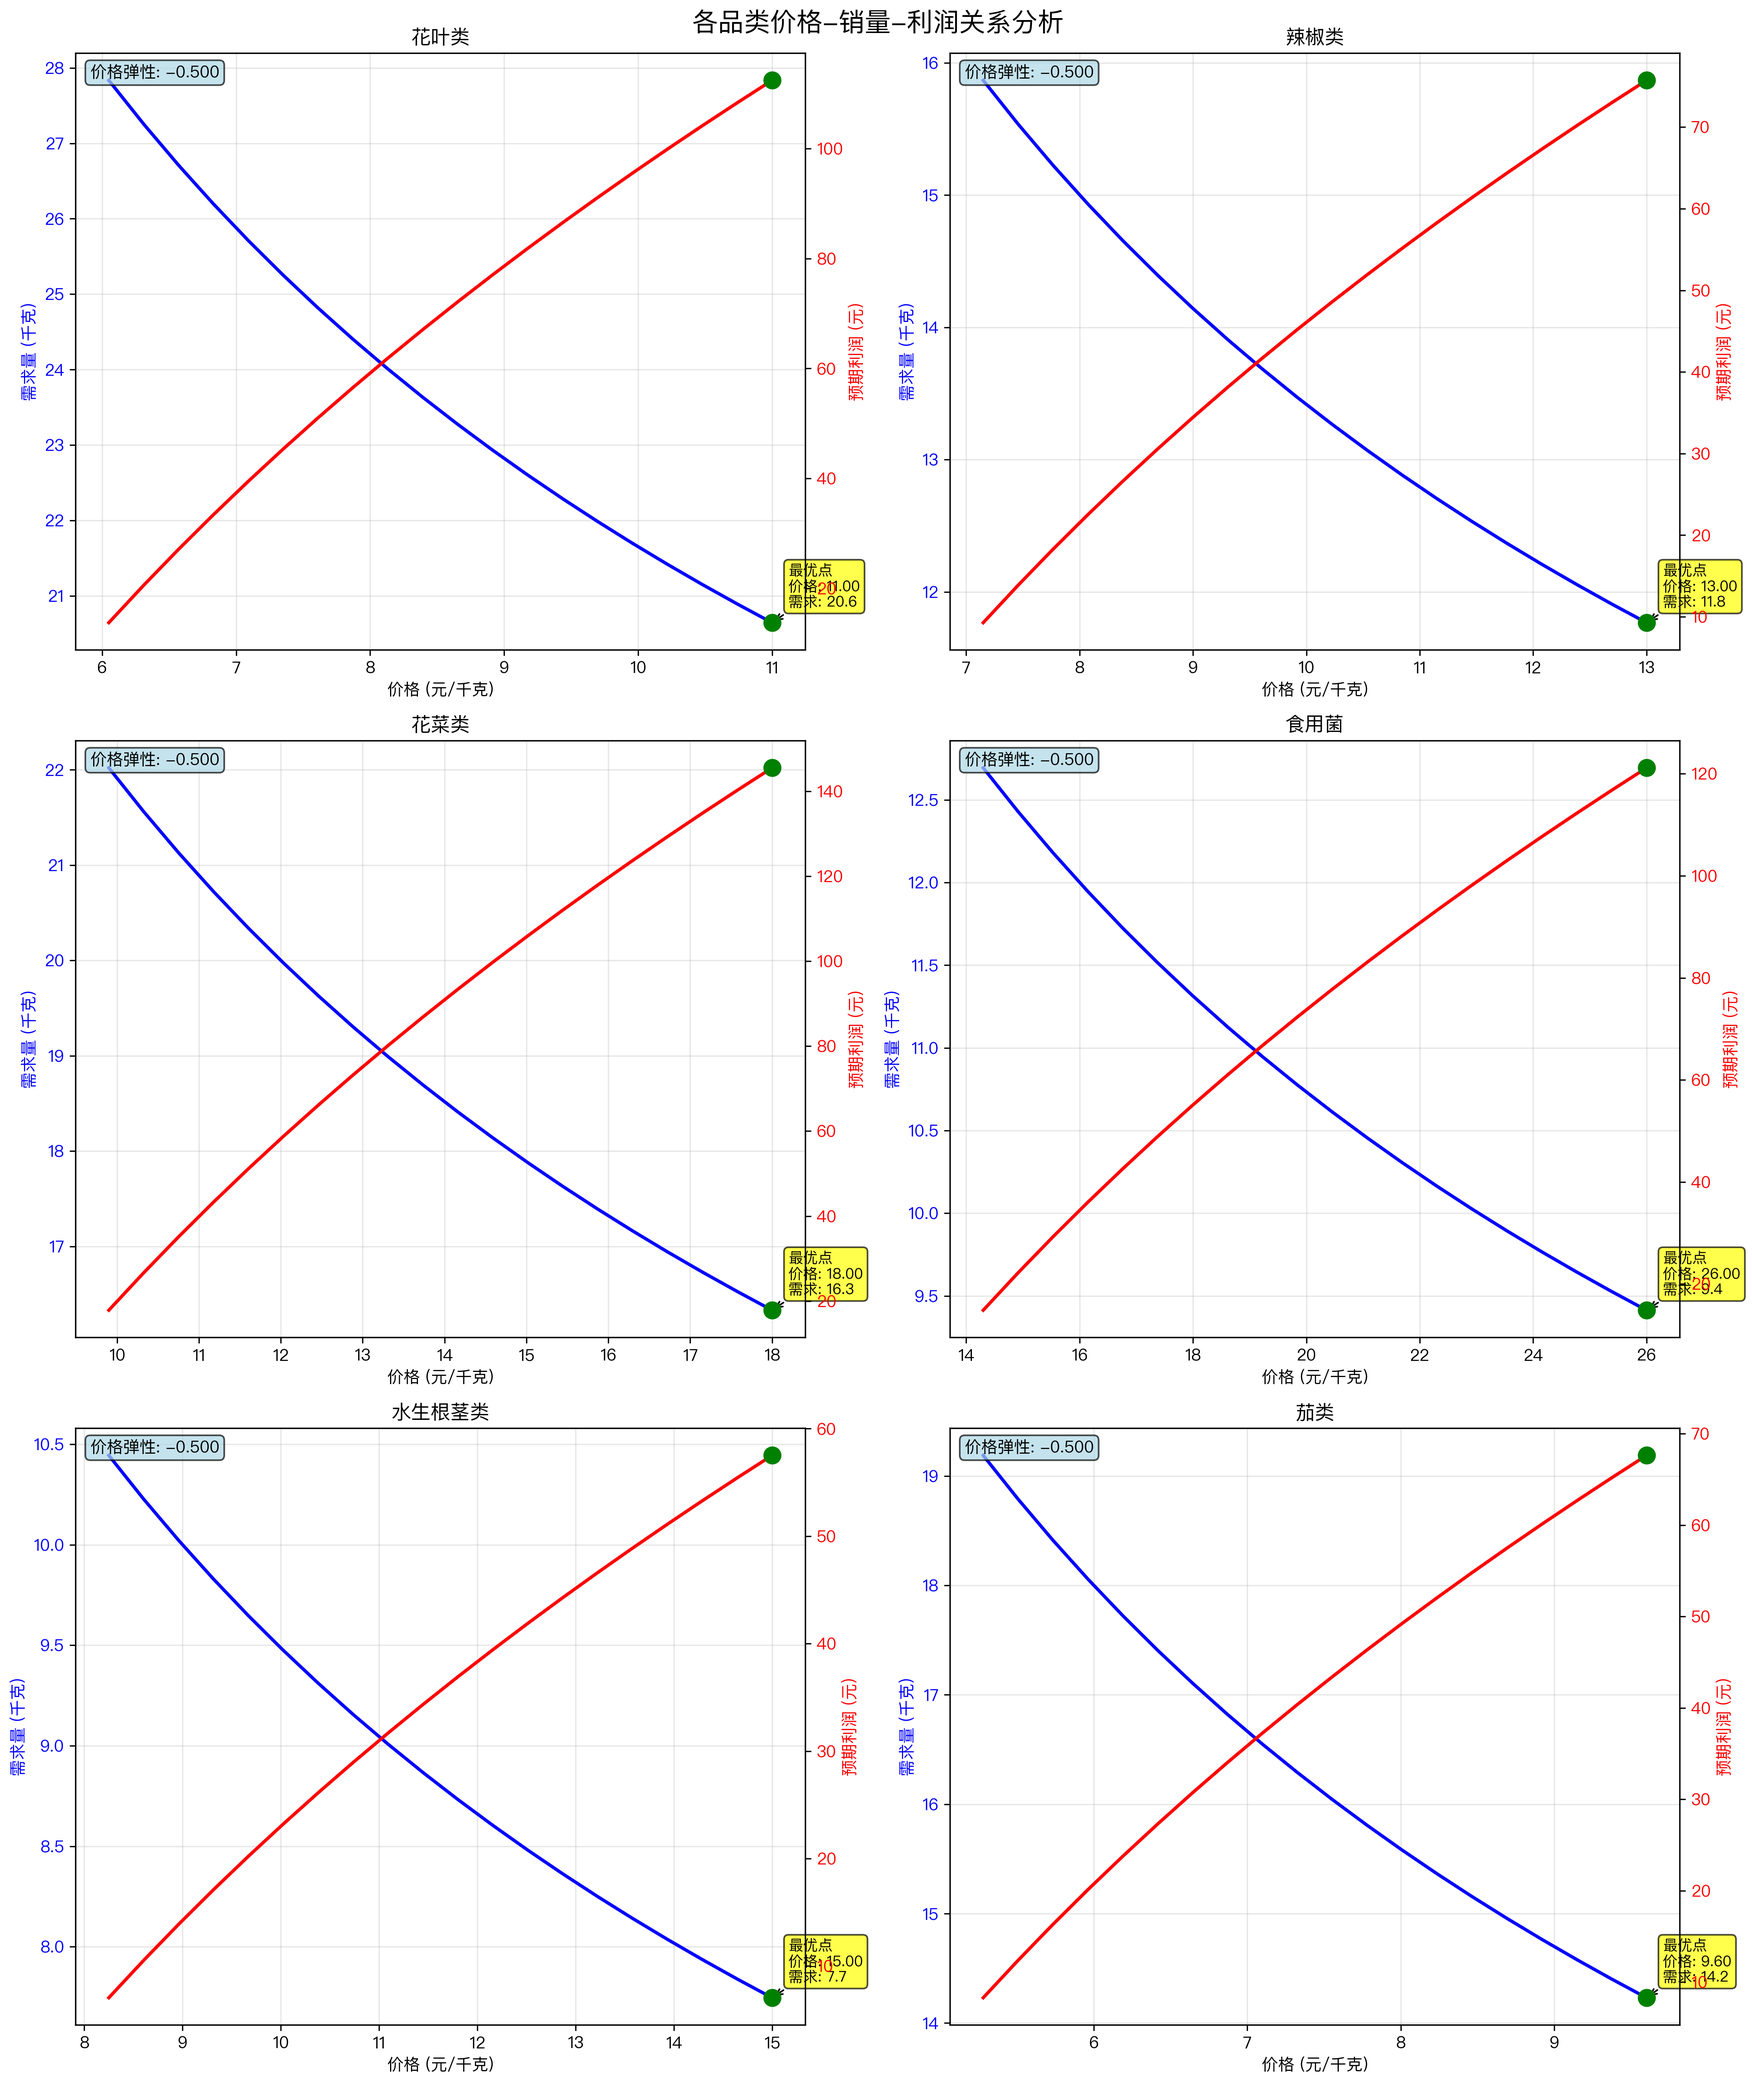
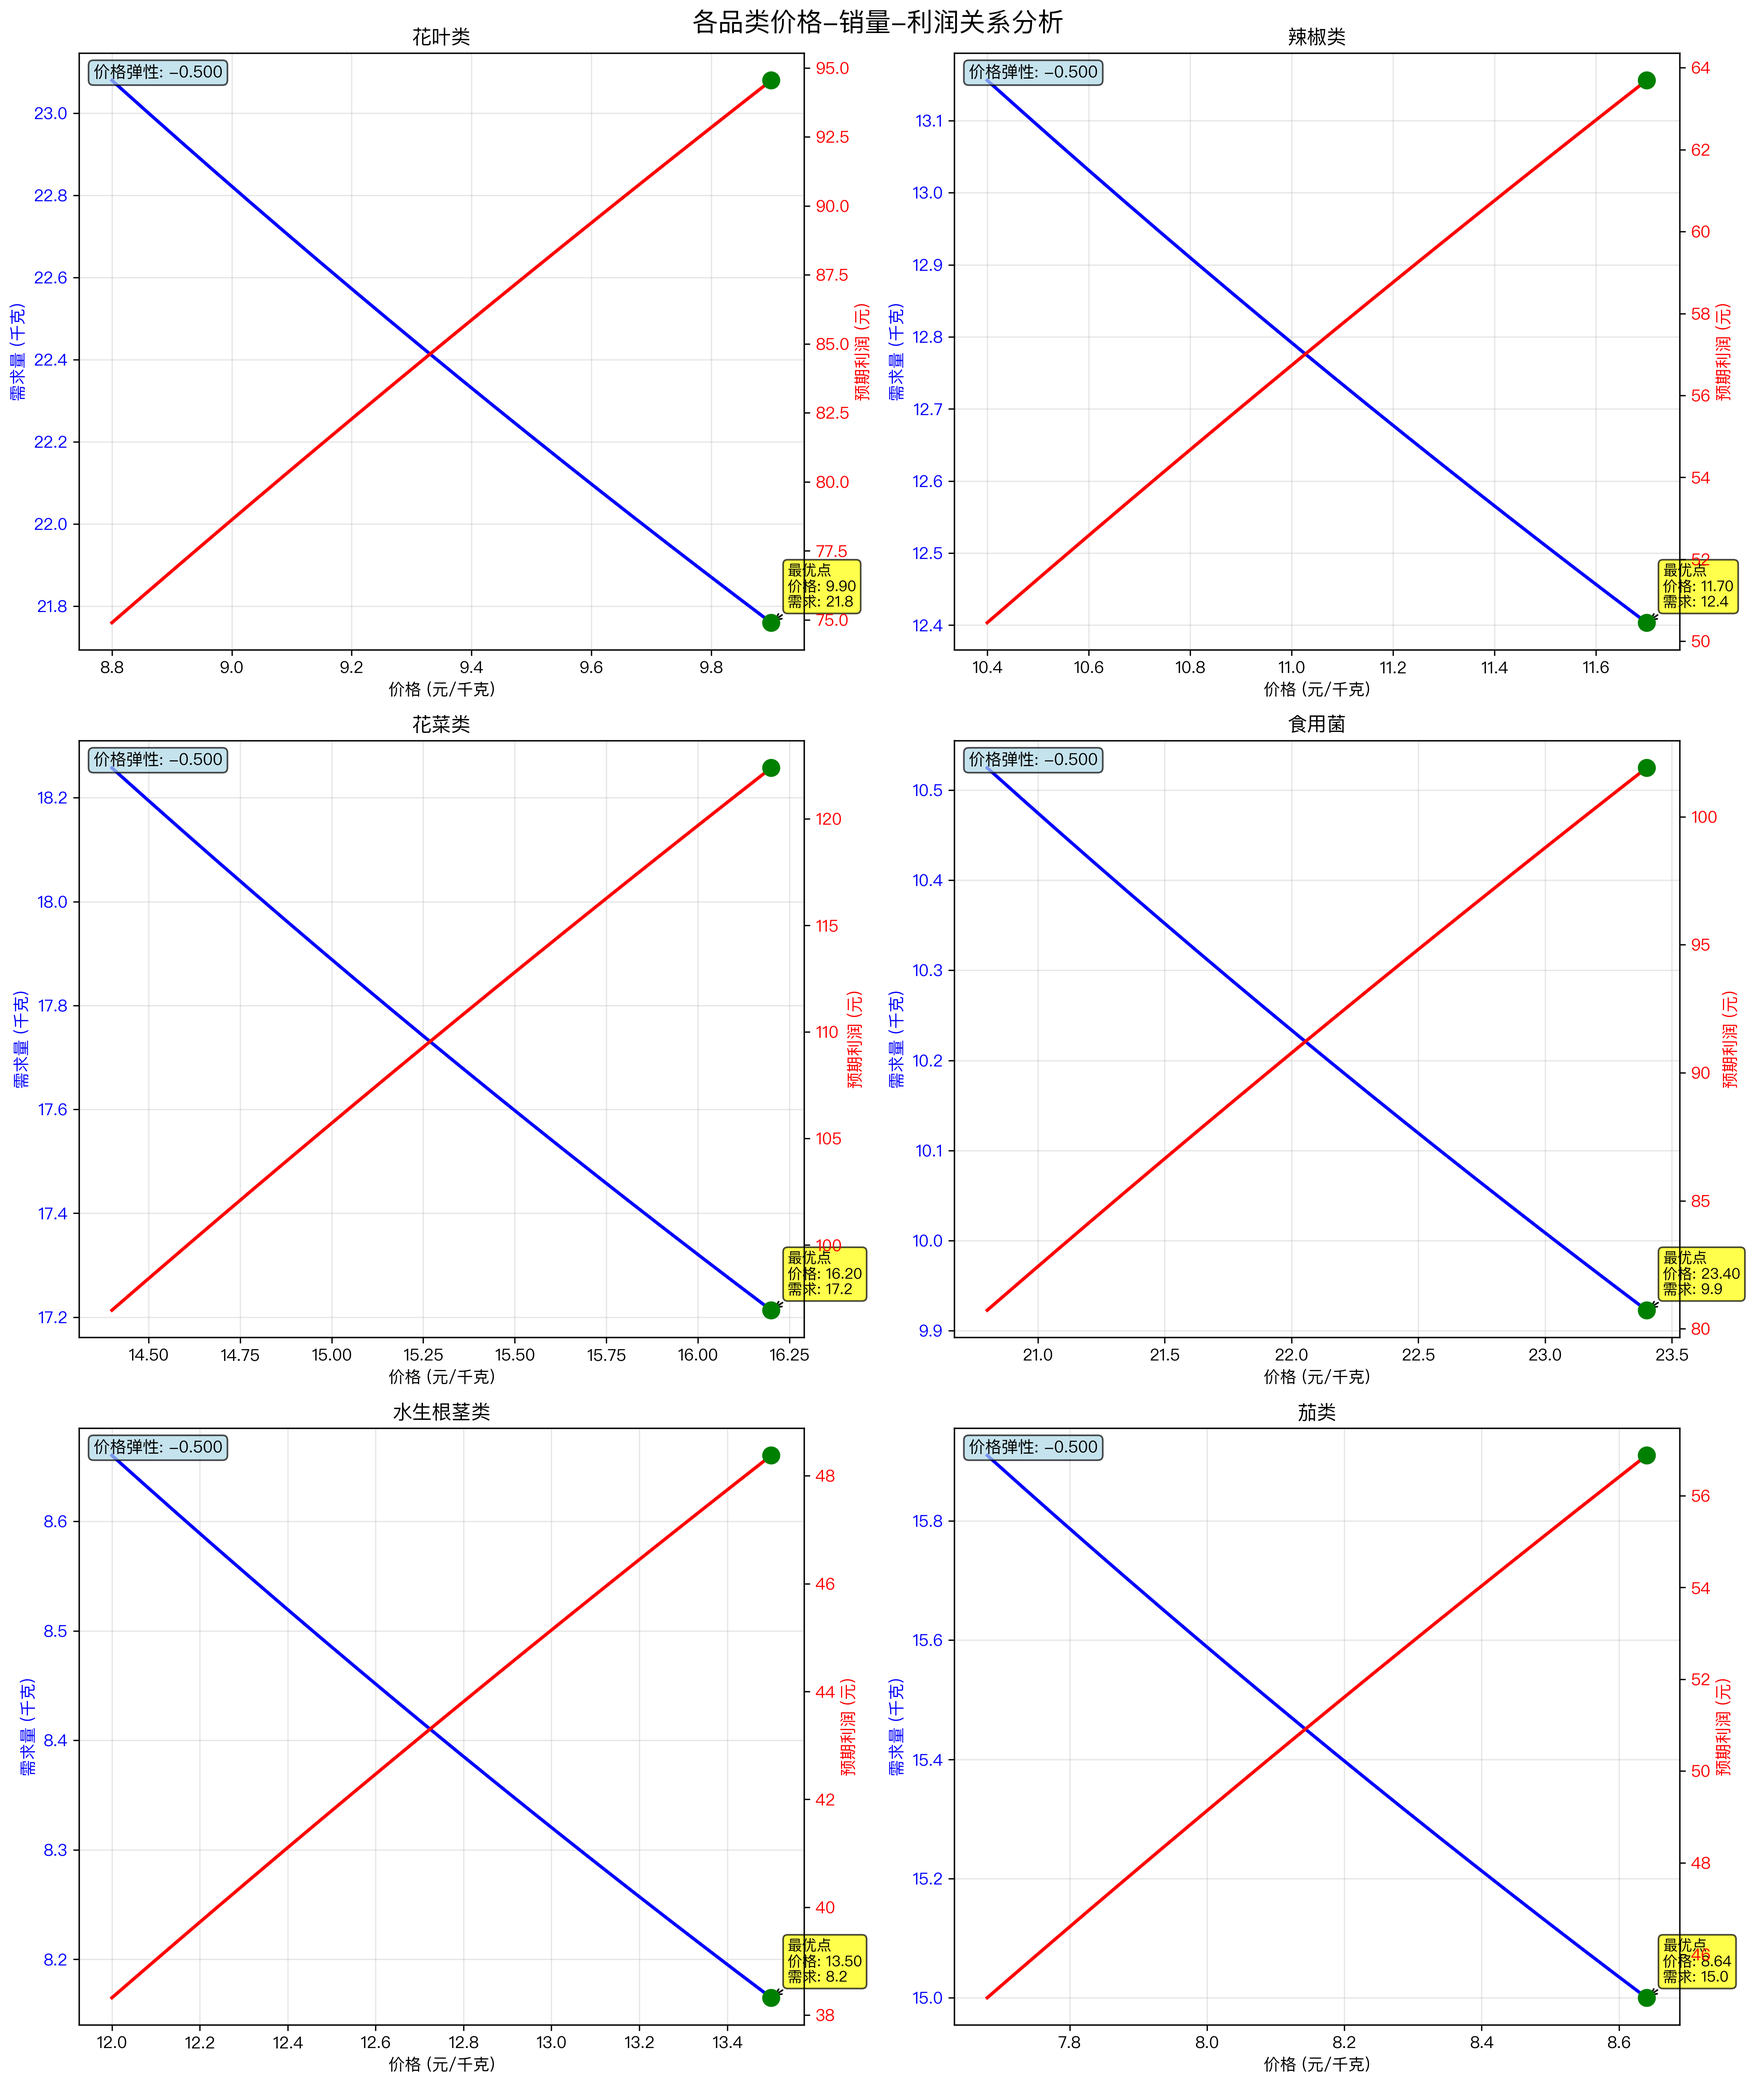
2

diff --git a/23C/2/src/optimizer.py b/23C/2/src/optimizer.py
@@ -144,13 +144,14 @@ class VegetableOptimizer:
             model_info = self.demand_models[category]
             elasticity = abs(model_info['price_elasticity'])
             
-            # 更稳定的定价策略（减少随机性）
-            if elasticity > 0.7:  # 高弹性：薄利多销
-                markup = 1.20
+            # 连续加价率策略（在1.6-1.8区间内）
+            # 基于弹性进行连续调整
+            if elasticity > 0.7:  # 高弹性：相对较低加价
+                markup = 1.60 + (0.20 * 0.3)  # 1.66
             elif elasticity > 0.5:  # 中等弹性
-                markup = 1.35
-            else:  # 低弹性：可以高加成
-                markup = 1.50
+                markup = 1.60 + (0.20 * 0.6)  # 1.72
+            else:  # 低弹性：相对较高加价
+                markup = 1.60 + (0.20 * 0.9)  # 1.78
             
             # 限制在配置范围内
             markup = np.clip(markup, self.opt_config['min_markup_ratio'], 
@@ -163,8 +164,9 @@ class VegetableOptimizer:
             best_price = optimal_price
             best_quantity = base_quantity
             
-            # 测试不同的价格点
-            test_prices = [wholesale_cost * m for m in [1.15, 1.25, 1.35, 1.45, 1.55]]
+            # 测试不同的价格点（在1.6-1.8区间内连续采样）
+            markup_samples = np.linspace(1.60, 1.80, 8)  # 在1.6-1.8区间内生成8个采样点
+            test_prices = [wholesale_cost * m for m in markup_samples]
             test_prices = [p for p in test_prices if self.opt_config['min_markup_ratio'] * wholesale_cost <= p <= self.opt_config['max_markup_ratio'] * wholesale_cost]
             
             for test_price in test_prices:
@@ -382,8 +384,8 @@ class VegetableOptimizer:
                 base_quantity = base_quantities.get(category, 15.0)
                 wholesale_cost = base_wholesale_prices.get(category, 8.0)
                 
-                # 生成价格区间（基于加成率）
-                markup_ratios = np.linspace(1.1, 2.0, 20)
+                # 生成价格区间（聚焦在1.6-1.8加成率）
+                markup_ratios = np.linspace(1.6, 1.8, 20)
                 prices = wholesale_cost * markup_ratios
                 
                 quantities = []

diff --git a/23C/2/reports/optimization_report.md b/23C/2/reports/optimization_report.md
@@ -1,44 +1,44 @@
 # 优化策略报告
-生成时间: 2025-08-17 19:17:06
+生成时间: 2025-08-18 22:02:06
 
 ## 优化配置
 - 优化时间窗口: 7 天
 - 服务水平: 80%
-- 最小加成率: 105%
-- 最大加成率: 250%
+- 最小加成率: 160%
+- 最大加成率: 180%
 
 ## 优化结果汇总
 ### 花叶类
-- 周期望利润: 346.16元
-- 平均定价: 8.49元/千克
-- 平均加成率: 155.0%
+- 周期望利润: 545.27元
+- 平均定价: 10.25元/千克
+- 平均加成率: 180.0%
 
 ### 辣椒类
-- 周期望利润: 232.16元
-- 平均定价: 9.84元/千克
-- 平均加成率: 155.0%
+- 周期望利润: 362.40元
+- 平均定价: 11.89元/千克
+- 平均加成率: 180.0%
 
 ### 花菜类
-- 周期望利润: 412.44元
-- 平均定价: 14.04元/千克
-- 平均加成率: 155.0%
+- 周期望利润: 645.84元
+- 平均定价: 16.12元/千克
+- 平均加成率: 180.0%
 
 ### 食用菌
-- 周期望利润: 359.76元
-- 平均定价: 20.72元/千克
-- 平均加成率: 155.0%
+- 周期望利润: 552.25元
+- 平均定价: 23.37元/千克
+- 平均加成率: 180.0%
 
 ### 水生根茎类
-- 周期望利润: 178.38元
-- 平均定价: 11.53元/千克
-- 平均加成率: 155.0%
+- 周期望利润: 270.62元
+- 平均定价: 13.18元/千克
+- 平均加成率: 180.0%
 
 ### 茄类
-- 周期望利润: 204.96元
-- 平均定价: 7.12元/千克
-- 平均加成率: 155.0%
+- 周期望利润: 316.01元
+- 平均定价: 8.38元/千克
+- 平均加成率: 180.0%
 
-**总期望利润: 1733.86元**
+**总期望利润: 2692.39元**
 
 ## 方法说明
 - 使用启发式算法基于需求弹性进行定价
